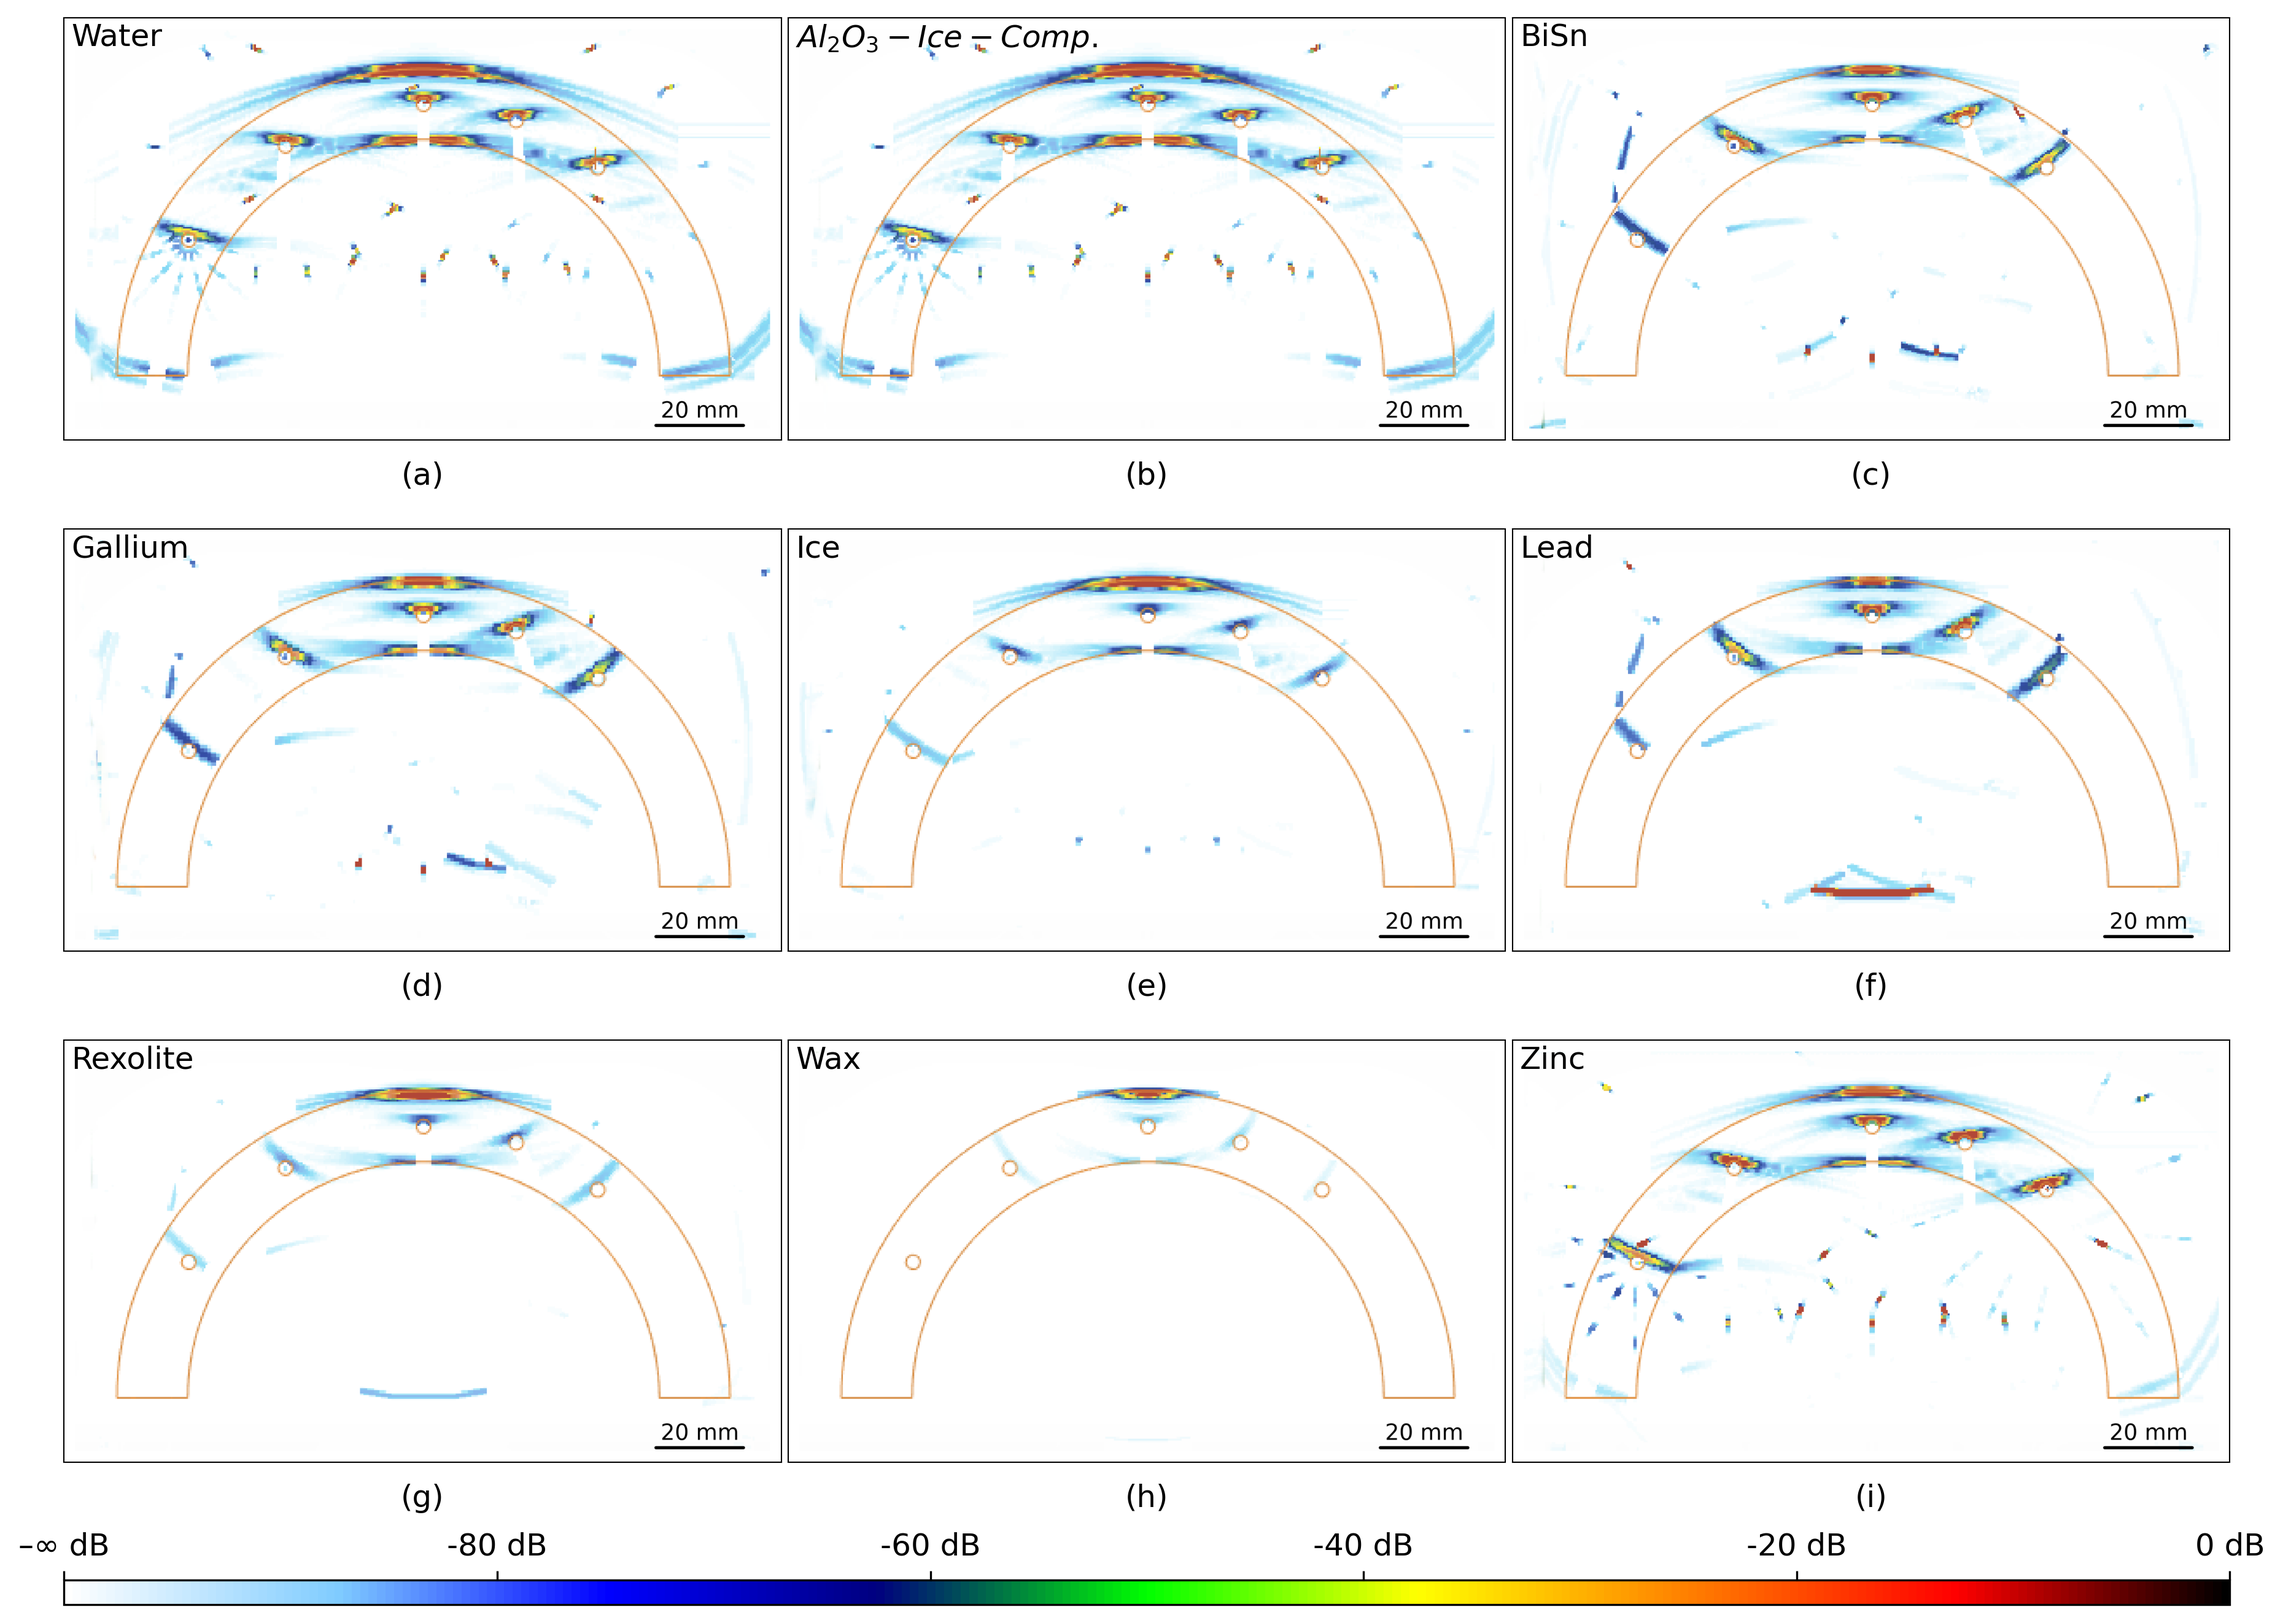
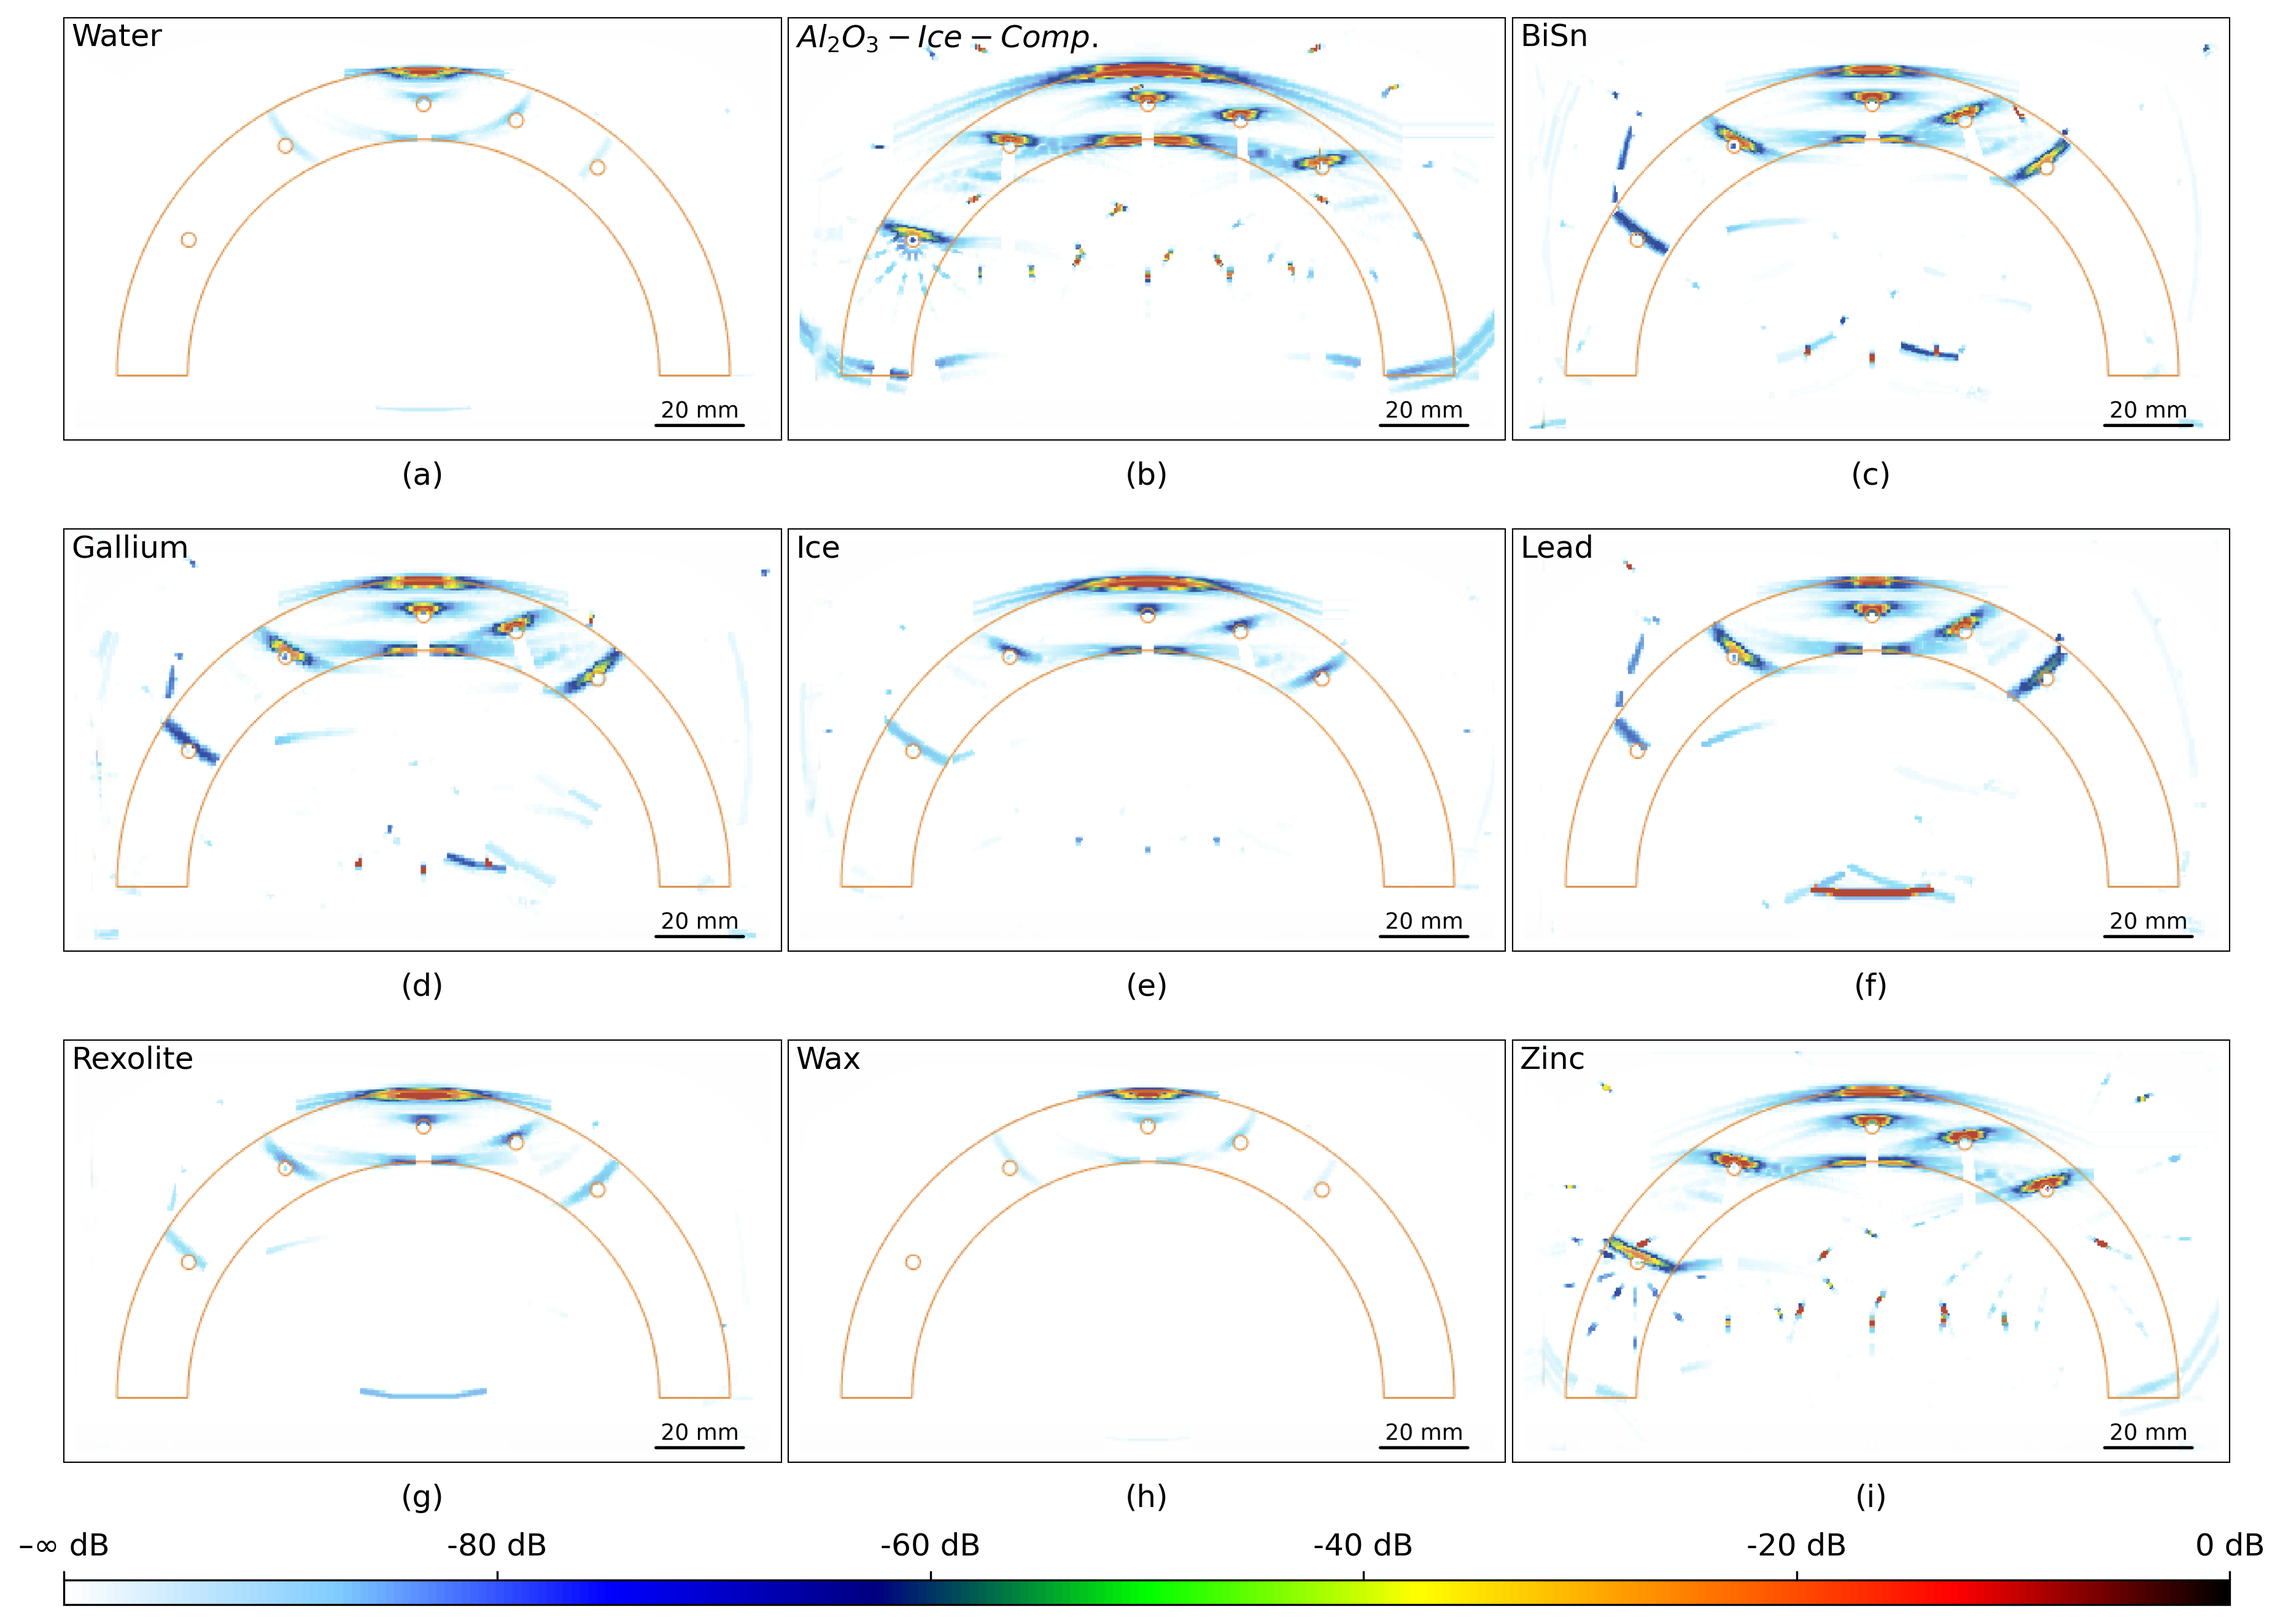
fix

Changed region(s): [[0.0624, 0.031, 0.3119, 0.186], [0.2495, 0.186, 0.3431, 0.248], [0.0312, 0.186, 0.1248, 0.248]]

diff --git a/pic_grouped3x3.py b/pic_grouped3x3.py
@@ -11,15 +11,15 @@ from matplotlib import gridspec
 # 1. 准备图片路径与标注（这里只取前9张）
 # -----------------------------
 img_paths = [
-    '20250507-Variation-3D Stoff-closedDefect\label\StainlessSteel347-AlIce.png',
-    '20250507-Variation-3D Stoff-closedDefect\label\StainlessSteel347-AlIce.png',
-    '20250507-Variation-3D Stoff-closedDefect\label\StainlessSteel347-BiSn.png',
-    '20250507-Variation-3D Stoff-closedDefect\label\StainlessSteel347-Gallium.png',
-    '20250507-Variation-3D Stoff-closedDefect\label\StainlessSteel347-Ice.png',
-    '20250507-Variation-3D Stoff-closedDefect\label\StainlessSteel347-Lead.png',
-    '20250507-Variation-3D Stoff-closedDefect\label\StainlessSteel347-Rexolite.png',
-    '20250507-Variation-3D Stoff-closedDefect\label\StainlessSteel347-Wax.png',
-    '20250507-Variation-3D Stoff-closedDefect\label\StainlessSteel347-Zinc.png',
+    '20250507-Variation-3D Stoff-closedDefect\label\Al-Water.png',
+    '20250507-Variation-3D Stoff-closedDefect\label\Al-AlIce.png',
+    '20250507-Variation-3D Stoff-closedDefect\label\Al-BiSn.png',
+    '20250507-Variation-3D Stoff-closedDefect\label\Al-Gallium.png',
+    '20250507-Variation-3D Stoff-closedDefect\label\Al-Ice.png',
+    '20250507-Variation-3D Stoff-closedDefect\label\Al-Lead.png',
+    '20250507-Variation-3D Stoff-closedDefect\label\Al-Rexolite.png',
+    '20250507-Variation-3D Stoff-closedDefect\label\Al-Wax.png',
+    '20250507-Variation-3D Stoff-closedDefect\label\Al-Zinc.png',
 ]
 top_labels = [
     'Water',
@@ -108,6 +108,6 @@ cbar.ax.tick_params(axis='x', which='major', labelsize=12, pad=4)
 # -----------------------------
 output_dir = '20250507-Variation-3D Stoff-closedDefect/grouped'
 os.makedirs(output_dir, exist_ok=True)
-fig.savefig(os.path.join(output_dir, '3x3_StainlessSteel347'),
+fig.savefig(os.path.join(output_dir, '3x3_Al'),
             dpi=300, bbox_inches='tight')
 # plt.show()
